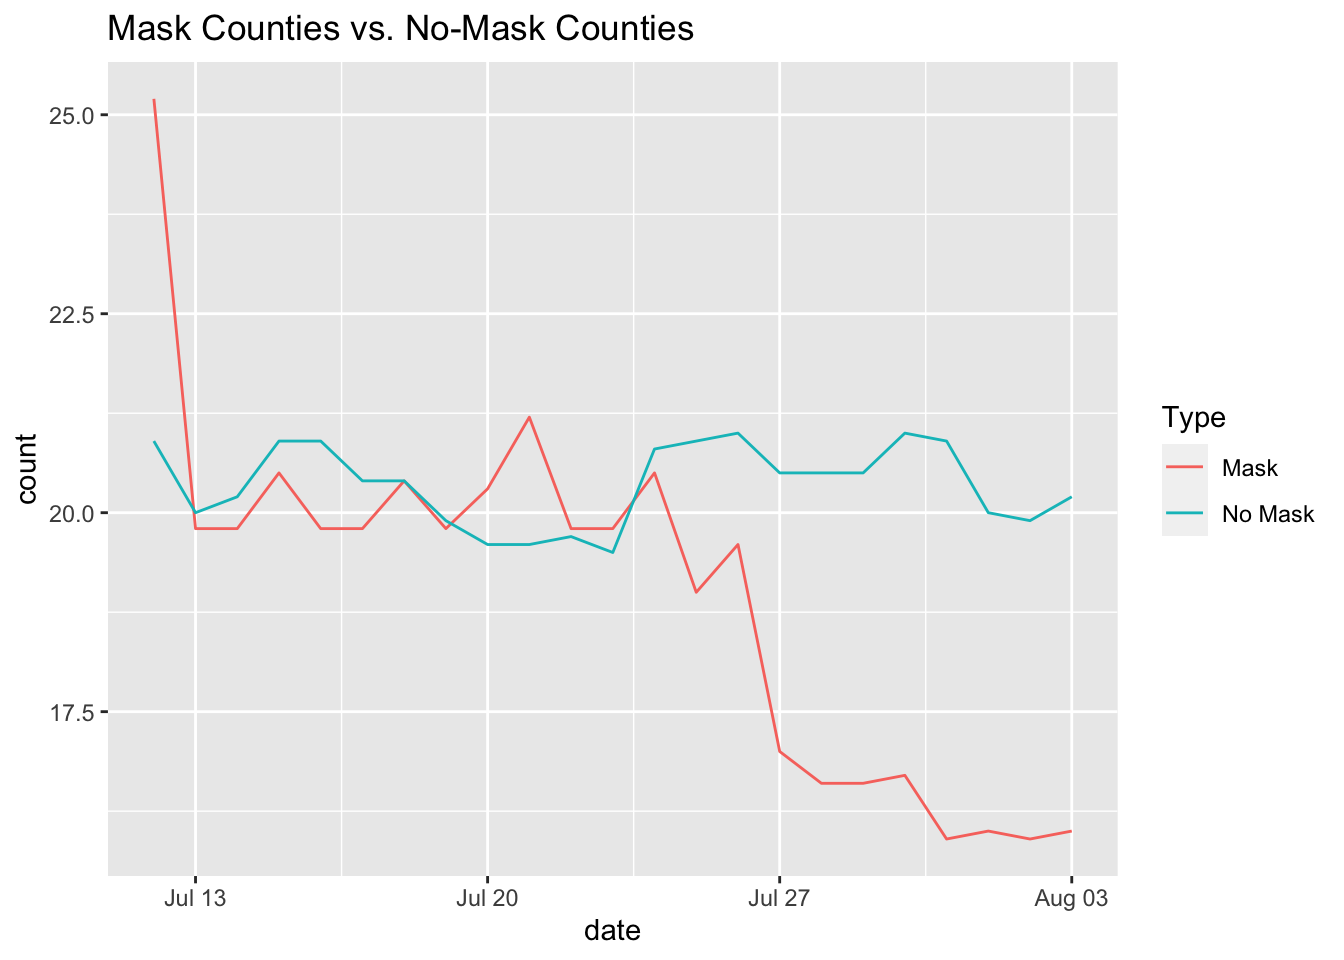
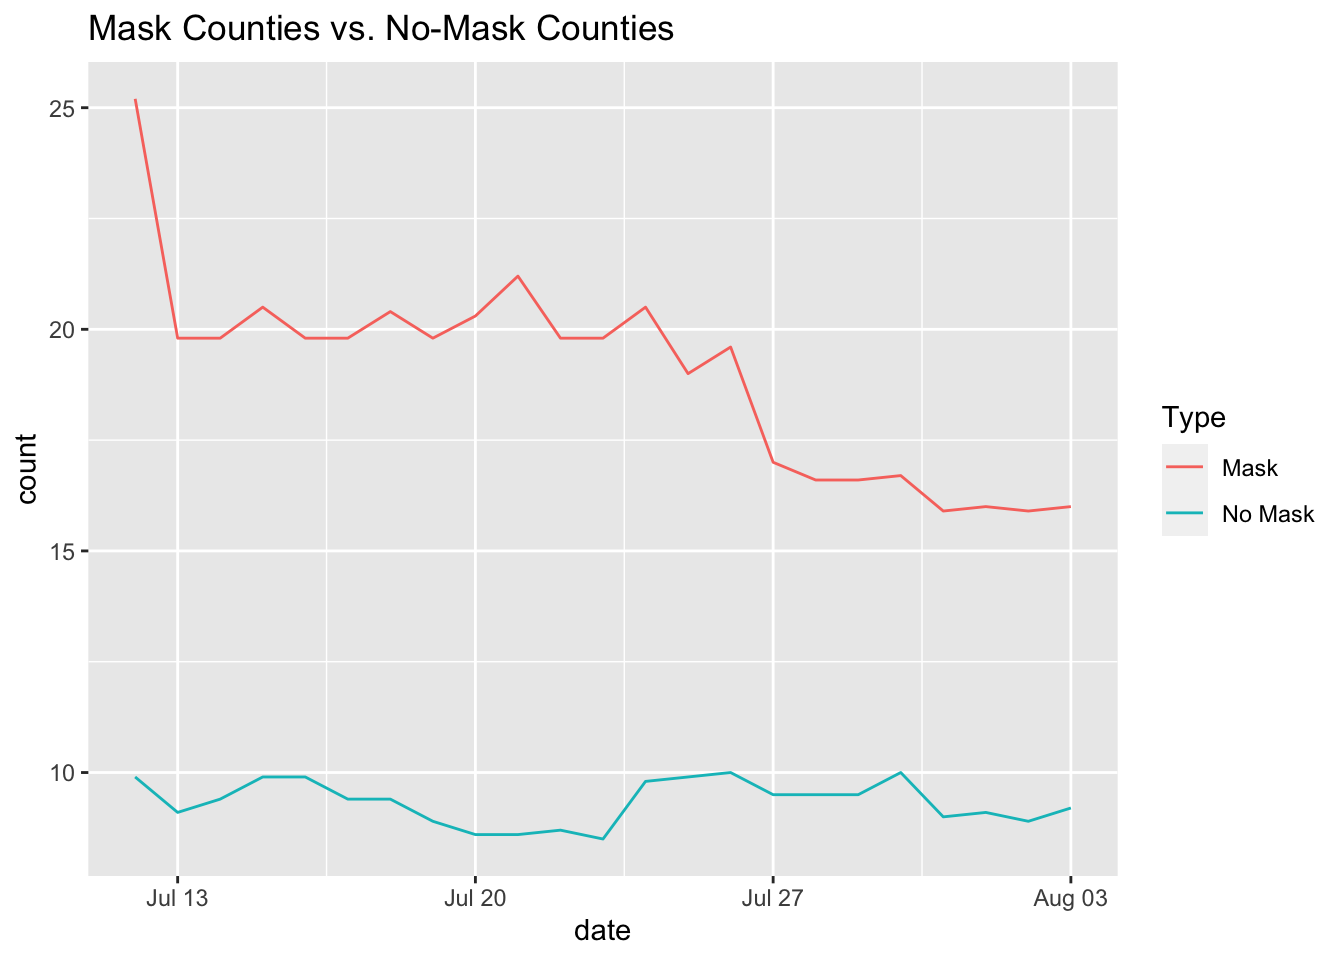
Ethics and Privacy

diff --git a/content/post/2022-04-11-ethics-and-privacy/index.html b/content/post/2022-04-11-ethics-and-privacy/index.html
@@ -72,45 +72,45 @@ df</code></pre>
 <p>data frame of no mask</p>
 <pre class="r"><code>df2 &lt;- tribble(
   ~date, ~count,
-  &quot;7/12/2020&quot;, 20.9,
-  &quot;7/13/2020&quot;, 20,
-  &quot;7/14/2020&quot;, 20.2,
-  &quot;7/15/2020&quot;, 20.9,
-  &quot;7/16/2020&quot;, 20.9,
-  &quot;7/17/2020&quot;, 20.4, 
-  &quot;7/18/2020&quot;, 20.4,
-  &quot;7/19/2020&quot;, 19.9,
-  &quot;7/20/2020&quot;, 19.6, 
-  &quot;7/21/2020&quot;, 19.6,
-  &quot;7/22/2020&quot;, 19.7,
-  &quot;7/23/2020&quot;, 19.5, 
-  &quot;7/24/2020&quot;, 20.8,
-  &quot;7/25/2020&quot;, 20.9,
-  &quot;7/26/2020&quot;, 21, 
-  &quot;7/27/2020&quot;, 20.5,
-  &quot;7/28/2020&quot;, 20.5,
-  &quot;7/29/2020&quot;, 20.5,
-  &quot;7/30/2020&quot;, 21,
-  &quot;7/31/2020&quot;, 20.9,
-  &quot;8/1/2020&quot;, 20, 
-  &quot;8/2/2020&quot;, 19.9,
-  &quot;8/3/2020&quot;, 20.2,
+  &quot;7/12/2020&quot;, 9.9,
+  &quot;7/13/2020&quot;, 9.1,
+  &quot;7/14/2020&quot;, 9.4,
+  &quot;7/15/2020&quot;, 9.9,
+  &quot;7/16/2020&quot;, 9.9,
+  &quot;7/17/2020&quot;, 9.4, 
+  &quot;7/18/2020&quot;, 9.4,
+  &quot;7/19/2020&quot;, 8.9,
+  &quot;7/20/2020&quot;, 8.6, 
+  &quot;7/21/2020&quot;, 8.6,
+  &quot;7/22/2020&quot;, 8.7,
+  &quot;7/23/2020&quot;, 8.5, 
+  &quot;7/24/2020&quot;, 9.8,
+  &quot;7/25/2020&quot;, 9.9,
+  &quot;7/26/2020&quot;, 10, 
+  &quot;7/27/2020&quot;, 9.5,
+  &quot;7/28/2020&quot;, 9.5,
+  &quot;7/29/2020&quot;, 9.5,
+  &quot;7/30/2020&quot;, 10,
+  &quot;7/31/2020&quot;, 9,
+  &quot;8/1/2020&quot;, 9.1, 
+  &quot;8/2/2020&quot;, 8.9,
+  &quot;8/3/2020&quot;, 9.2,
   
 )
 df2</code></pre>
 <pre><code>## # A tibble: 23 × 2
 ##    date      count
 ##    &lt;chr&gt;     &lt;dbl&gt;
-##  1 7/12/2020  20.9
-##  2 7/13/2020  20  
-##  3 7/14/2020  20.2
-##  4 7/15/2020  20.9
-##  5 7/16/2020  20.9
-##  6 7/17/2020  20.4
-##  7 7/18/2020  20.4
-##  8 7/19/2020  19.9
-##  9 7/20/2020  19.6
-## 10 7/21/2020  19.6
+##  1 7/12/2020   9.9
+##  2 7/13/2020   9.1
+##  3 7/14/2020   9.4
+##  4 7/15/2020   9.9
+##  5 7/16/2020   9.9
+##  6 7/17/2020   9.4
+##  7 7/18/2020   9.4
+##  8 7/19/2020   8.9
+##  9 7/20/2020   8.6
+## 10 7/21/2020   8.6
 ## # … with 13 more rows</code></pre>
 <pre class="r"><code>df3 &lt;- df %&gt;%  mutate(Type = &#39;Mask&#39;) %&gt;%
        bind_rows(df2 %&gt;%
@@ -179,8 +179,8 @@ df4</code></pre>
   geom_line() +
   ggtitle(&quot;Mask Counties vs. No-Mask Counties&quot;)</code></pre>
 <p><img src="{{< blogdown/postref >}}index_files/figure-html/unnamed-chunk-9-1.png" width="672" /></p>
-<p>The message that is more clear is the comparison of both of the data and they share the same y axis which is easier to read. The color lines are named so its more clear to see the two difrrent data lines.</p>
-<p>Counties that wear masks have dropped lower than the non mask counties in covid cases by the end of the month but at the begging non mask counties were lower than mask counties.</p>
+<p>The message that is more clear is the comparison of both of the data and they share the same y axis which is easier to read. The color lines are named so its more clear to see the two different data lines.</p>
+<p>Counties that wear masks have dropped lower in covid cases by the end of the month but at the begging non mask counties were lower than mask counties. The non mask had maintained a stable line while the mask droped down in cases.</p>
 </div>
 <div id="data-viz-review" class="section level1">
 <h1>Data Viz Review</h1>
